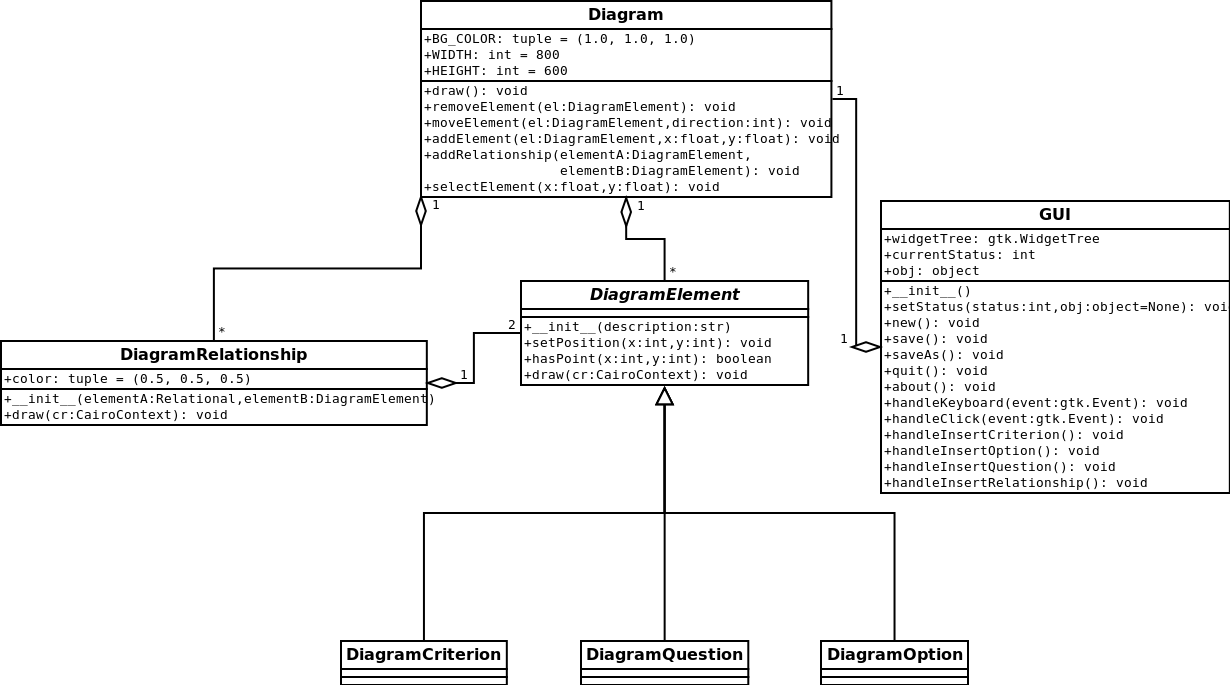
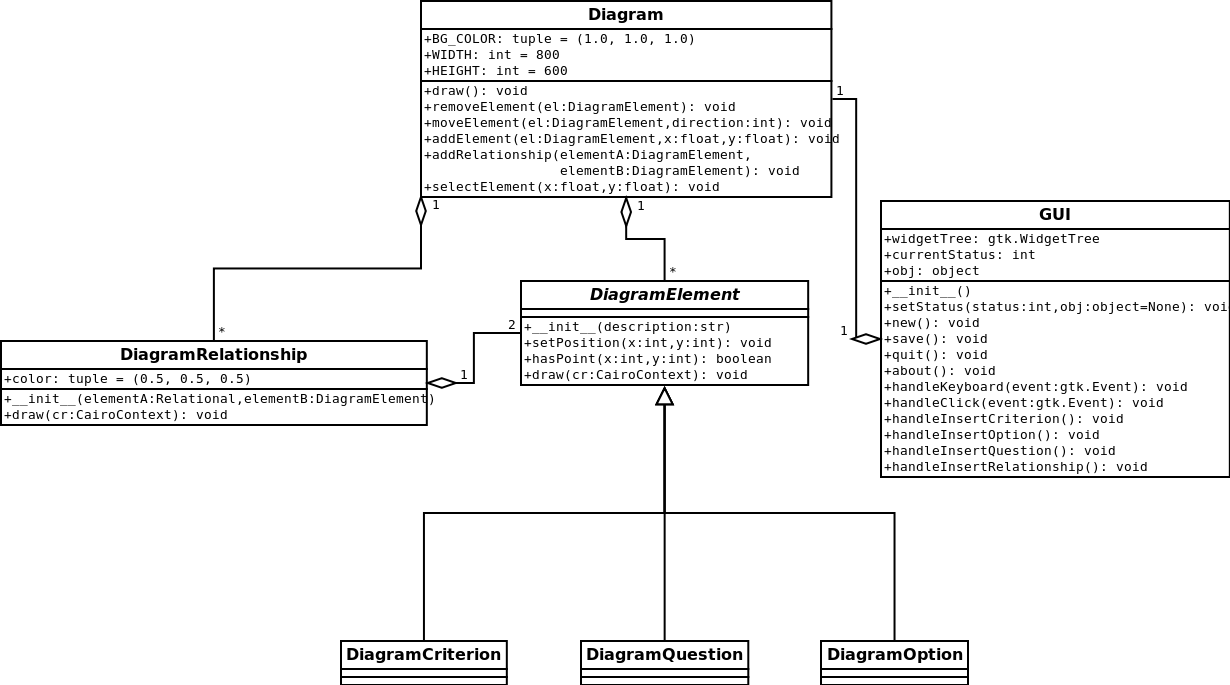
Removed useless Save as action

Changed region(s): [[0.6797, 0.4905, 0.9577, 0.7358], [0.9886, 0.6745, 1.0, 0.7358]]

diff --git a/gui.py b/gui.py
@@ -136,10 +136,6 @@ class GUI:
                 f.close()
             except Exception, e:
                 print 'Erro ao salvar', e
-    
-    def saveAs(self, widget):
-        '''Saves the current working diagram as a different file.'''
-        print 'save as'
 
     def quit(self, widget):
         '''Quits the application.'''
